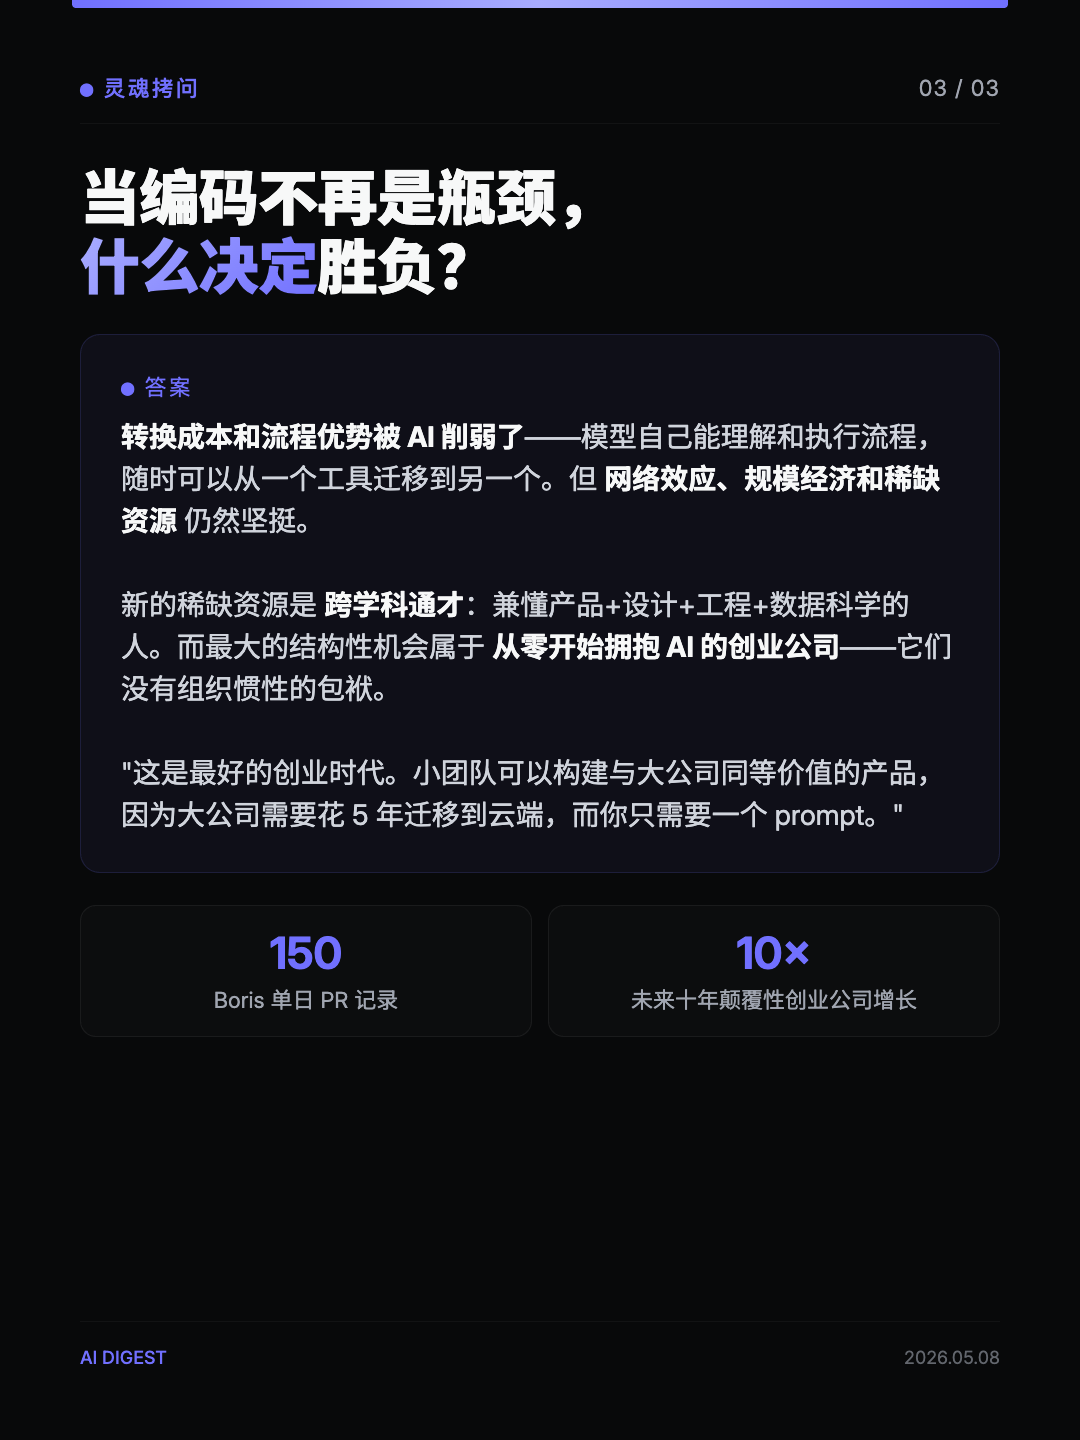
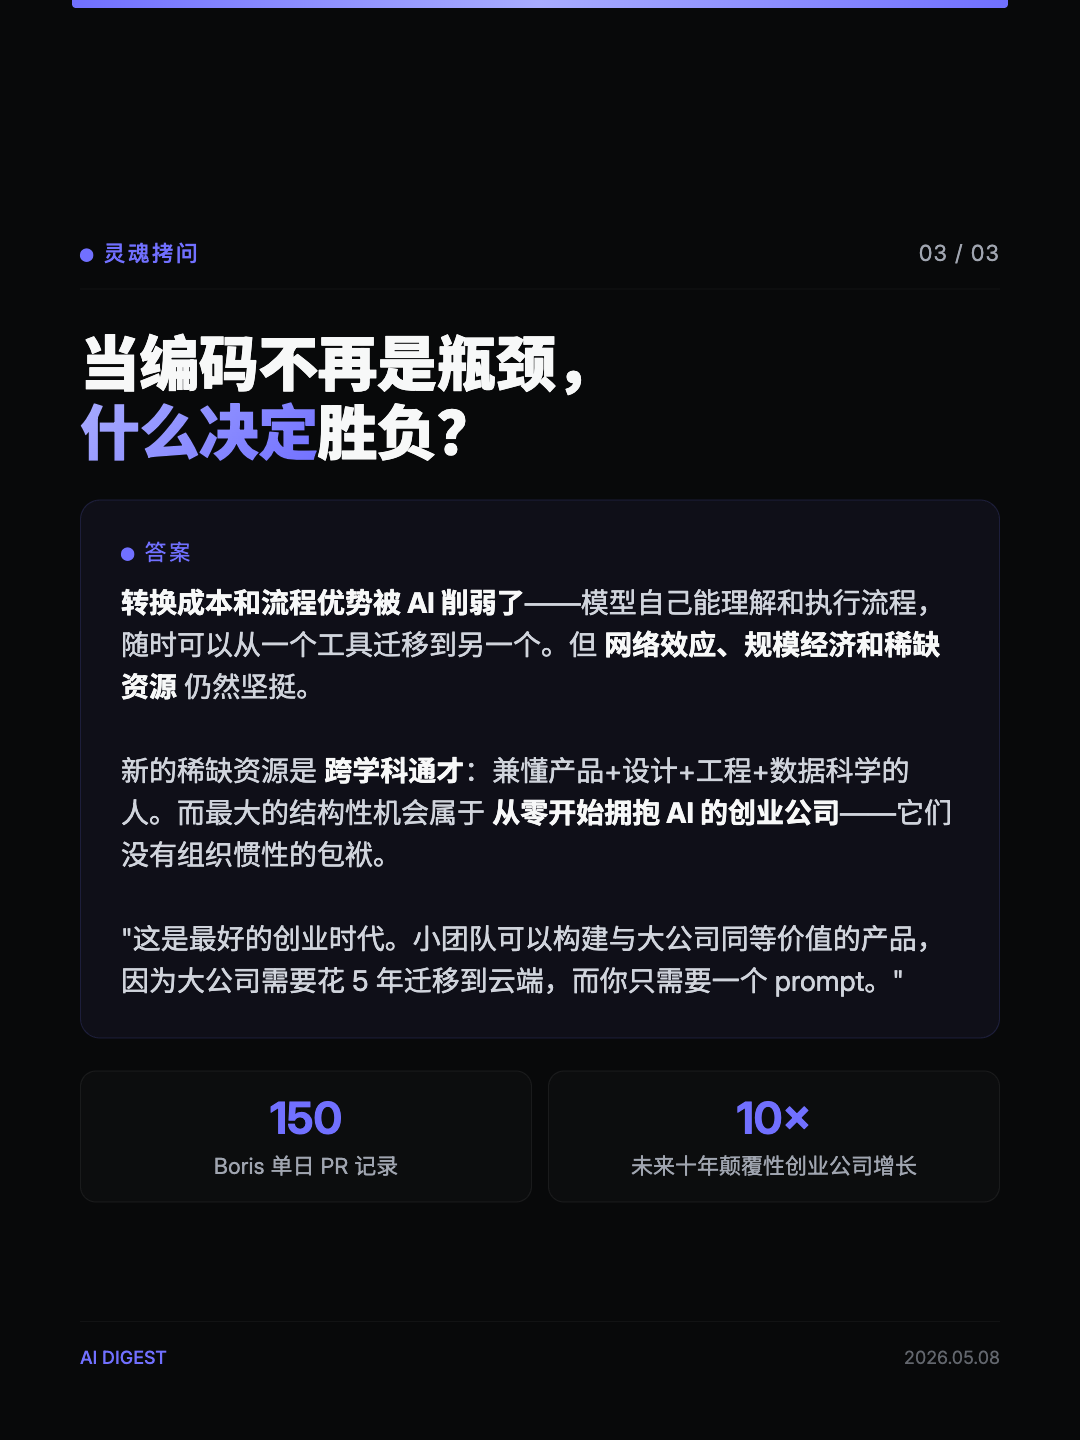
🐛 修复底部 footer 被裁切 + 第1页加footer + 页码提亮

diff --git a/docs/20260508.html b/docs/20260508.html
@@ -235,7 +235,10 @@
   }
 
   .card-footer {
-    margin-top: auto;
+    position: absolute;
+    bottom: 72px;
+    left: 80px;
+    right: 80px;
     padding-top: 24px;
     border-top: 1px solid rgba(255,255,255,0.04);
     display: flex;
@@ -336,6 +339,10 @@
         <span>印刷术类比</span>
         <span>软件民主化</span>
       </div>
+      <div class="card-footer" style="justify-content:center">
+        <span class="brand">AI DIGEST</span>
+        <span style="margin-left:auto">2026.05.08 · Training Data 播客</span>
+      </div>
     </div>
 
     <!-- ============================================ -->
@@ -357,19 +364,12 @@
         </div>
 
         <div class="analysis-block">
-          <div class="ab-title"><span class="emoji">🔄</span>Loops：永远在线的 Agent</div>
+          <div class="ab-title"><span class="emoji">🔄</span>Loops + 印刷术类比</div>
           <div class="ab-body">
             Boris 日常跑着 <strong>几十个 /loop 循环任务</strong>：自动 rebase PR、修复 flaky test、每 30 分钟抓取 Twitter 反馈并聚类。Claude 4.7 已经开始 <strong>主动提议开 loop</strong>——"我注意到数据在变化，让我开个循环每 30 分钟给你发 Slack 报告。"<br><br>
             <span class="accent-text">Loops 和子 Agent 正在取代传统的 CI/CD 流水线。</span>
           </div>
-        </div>
-
-        <div class="analysis-block">
-          <div class="ab-title"><span class="emoji">📜</span>印刷术的软件版本</div>
-          <div class="ab-body">
-            印刷术前欧洲识字率仅 10%，印刷术后 50 年出书量超过此前千年。书价跌了 100 倍。几百年后全球识字率升到 70%。<strong>软件正在经历完全一样的民主化</strong>——而且只会更快。以前需要学 TypeScript 和框架才能写代码，以后只需要懂业务。<br><br>
-            <span class="accent-text">"最好的会计软件，该由最好的会计师来写。"</span>
-          </div>
+          <div class="ab-quote">印刷术前识字率仅10%，术后50年产出超此前千年。<strong>软件正在经历完全一样的民主化</strong>——以前学框架，以后只需要懂业务。</div>
         </div>
       </div>
 
